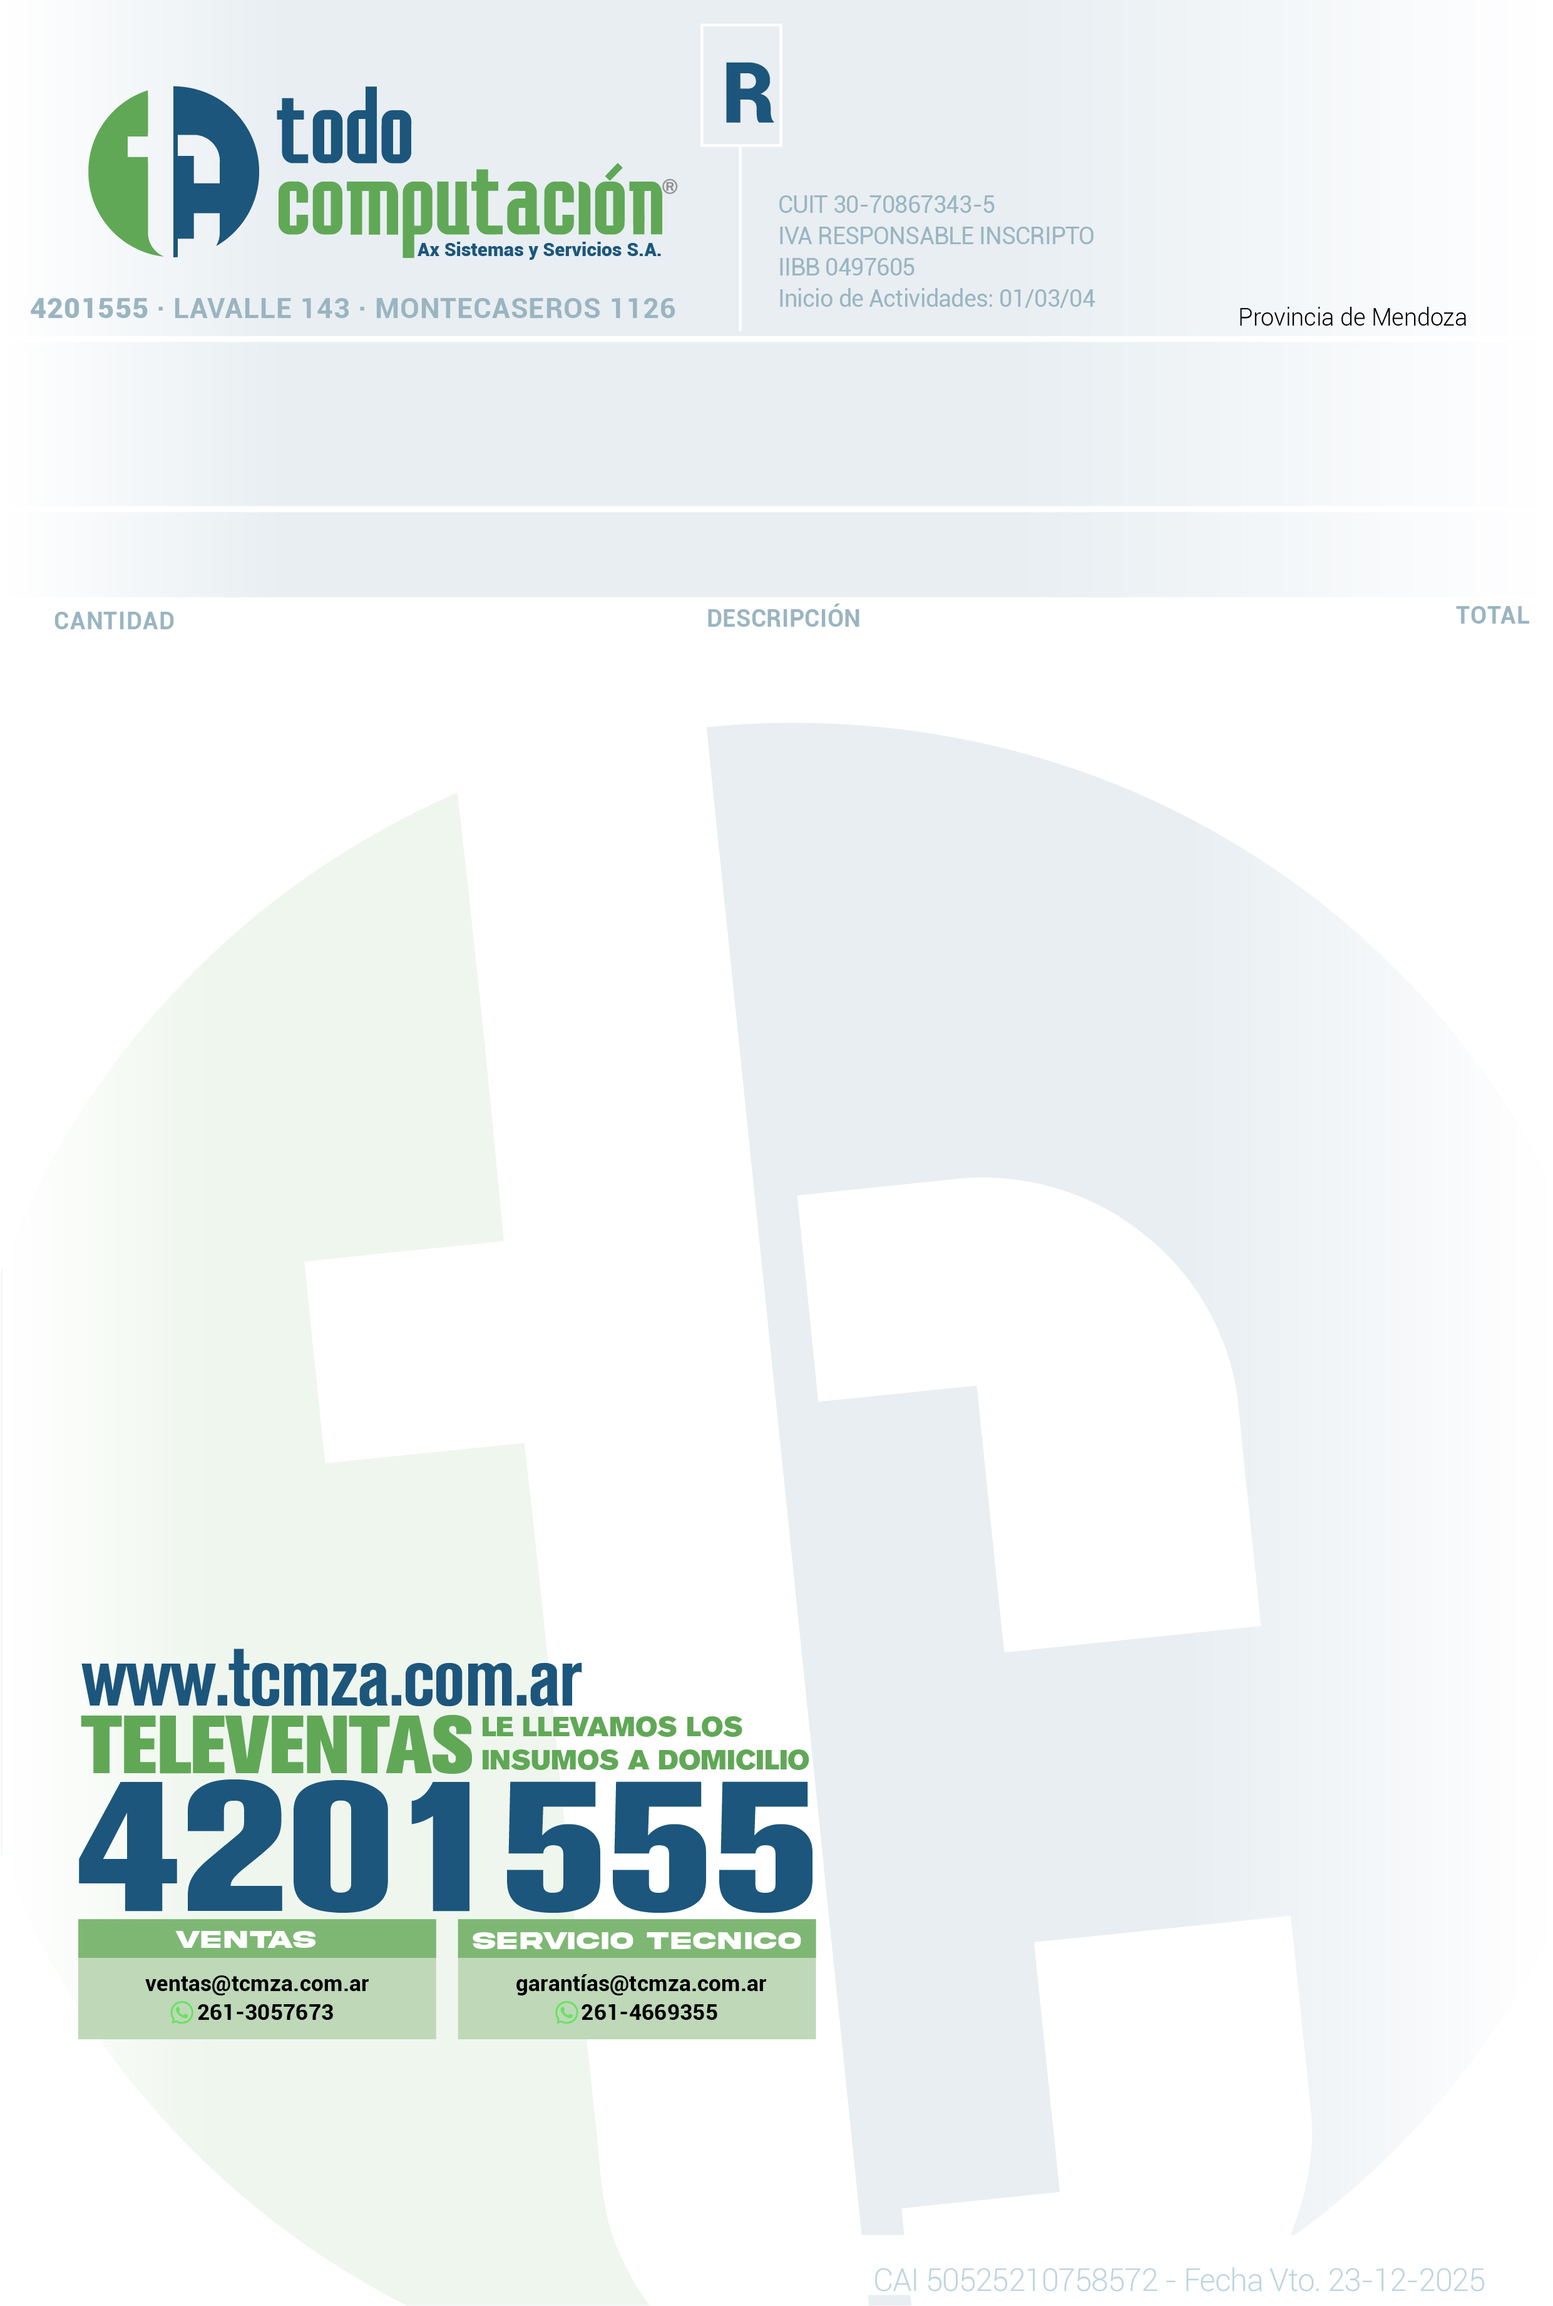
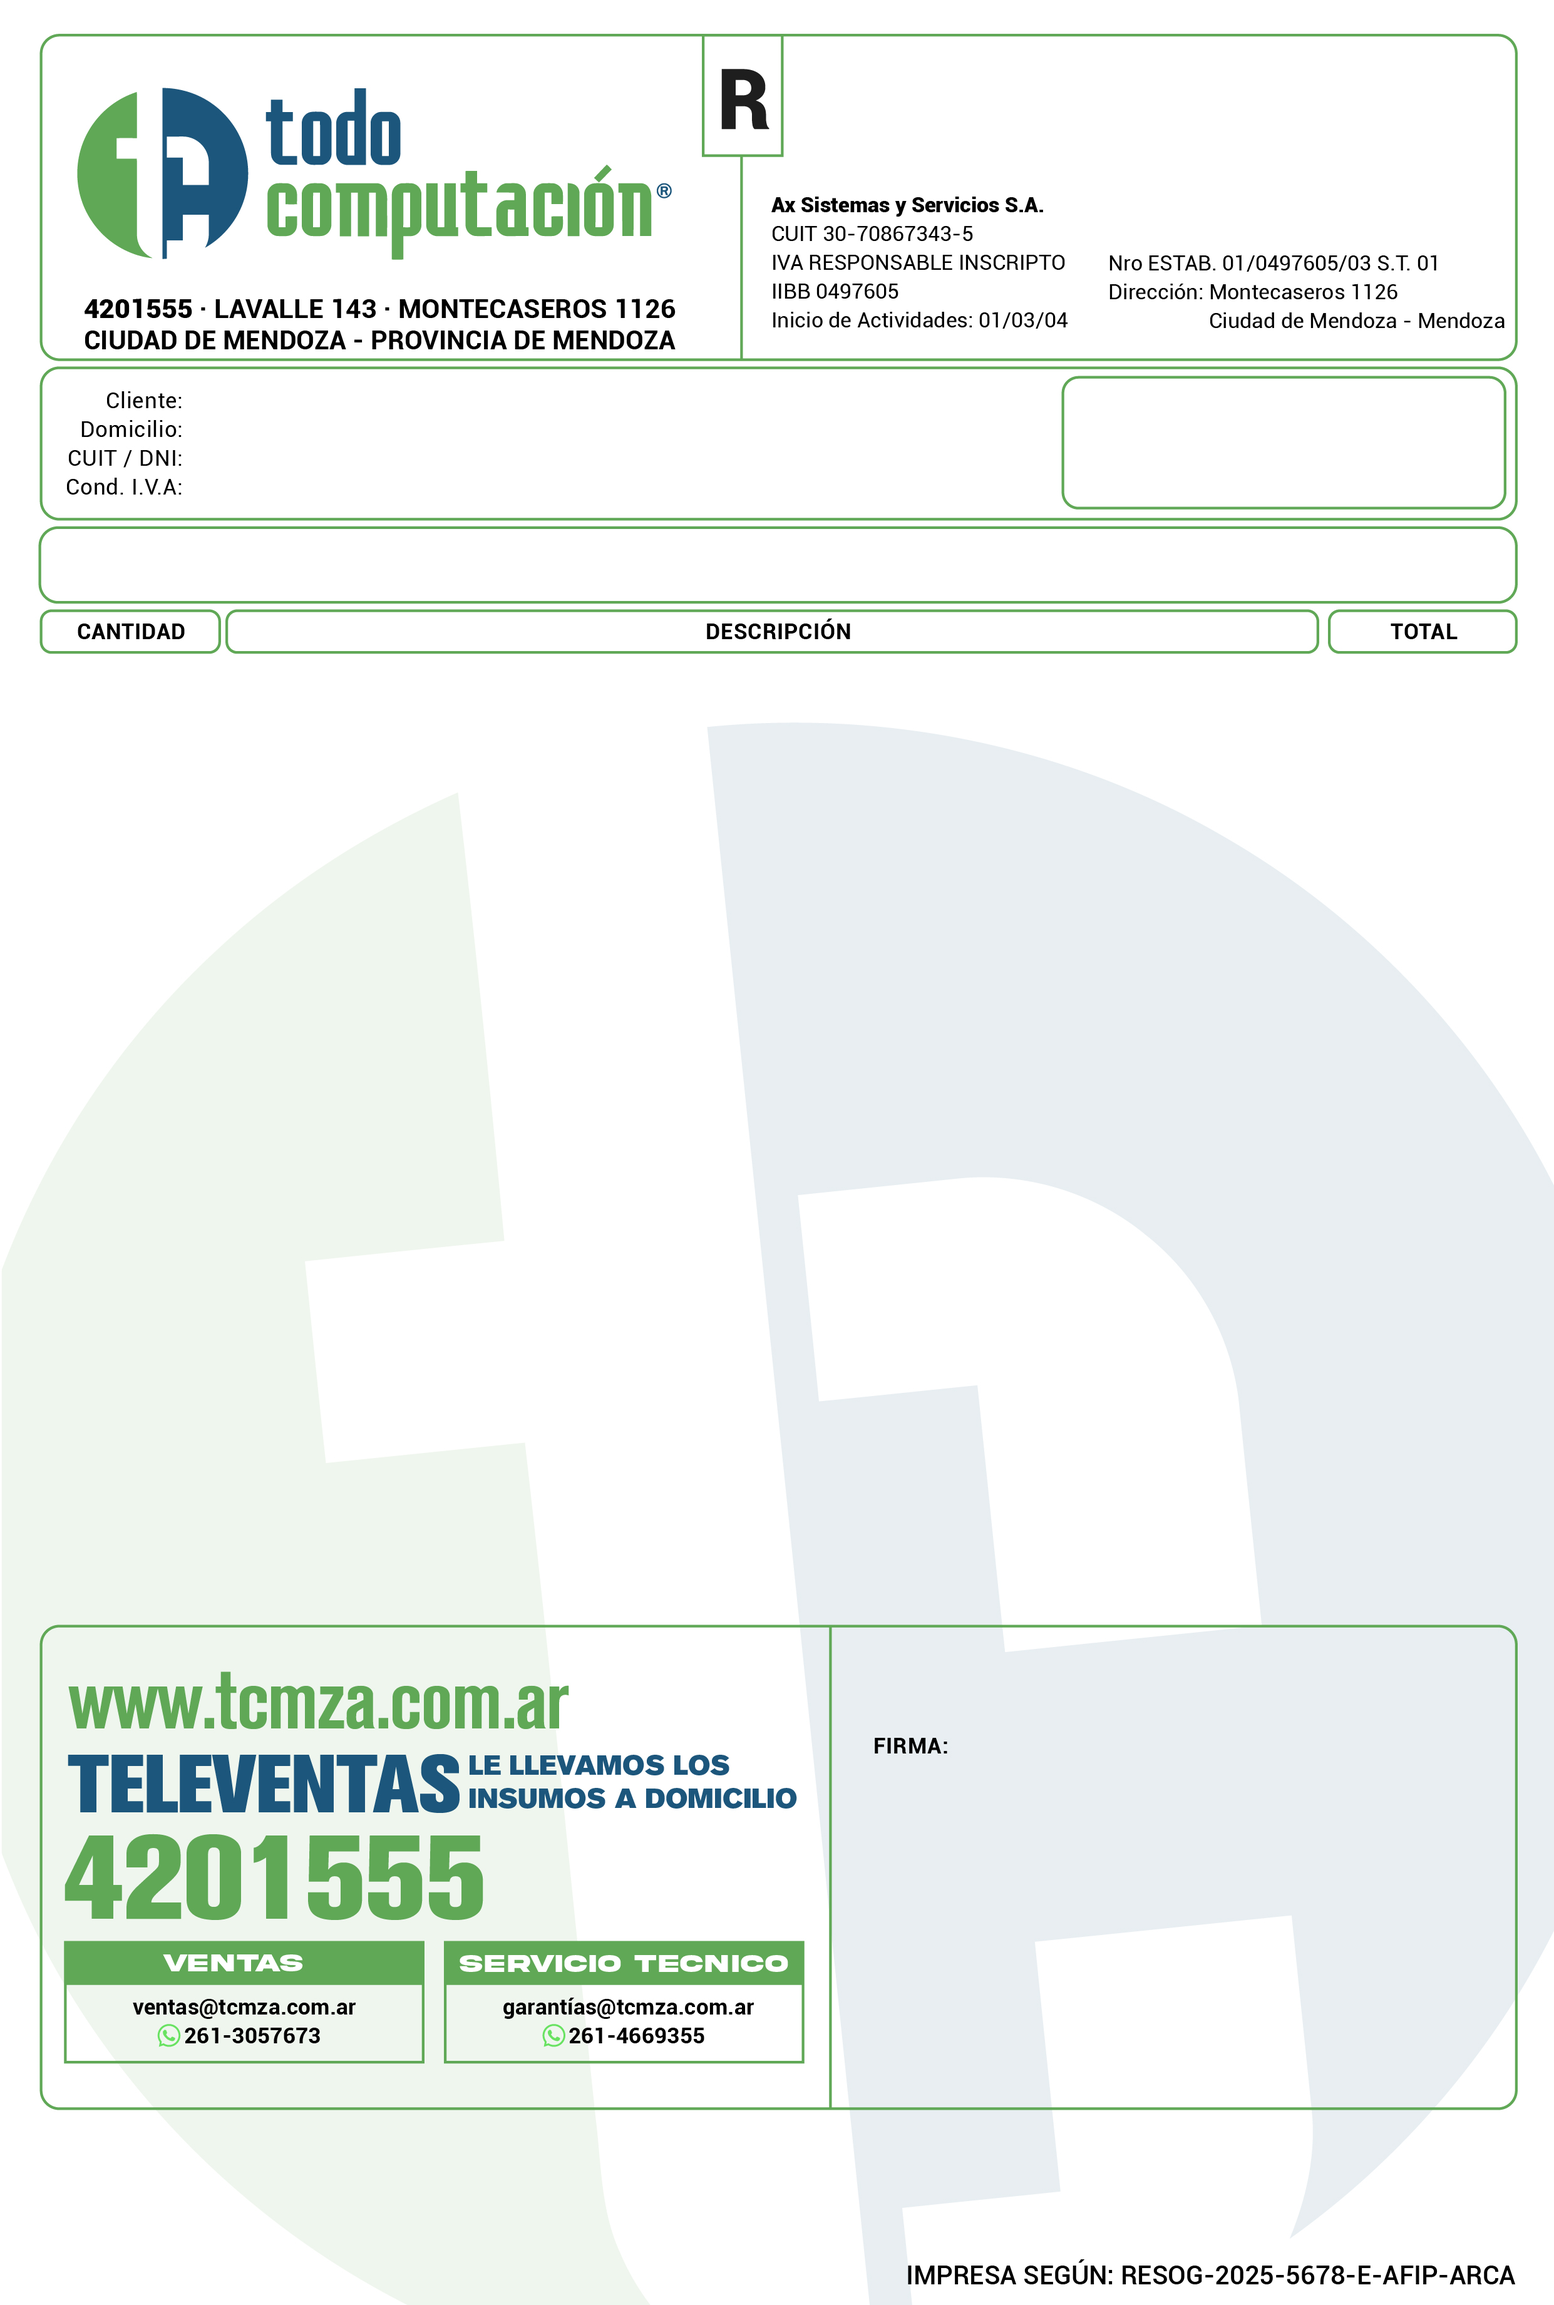
Seteo remitos, arreglo fecha dolar

diff --git a/src/services/BnaService.ts b/src/services/BnaService.ts
@@ -240,9 +240,14 @@ export async function writeBnaDbf(q: Quotes, file: string): Promise<string> {
     { name: 'VENTA', type: 'N', size: 14, decs: 4 }, { name: 'UNIDAD', type: 'N', size: 5, decs: 0 },
     { name: 'FUENTE', type: 'C', size: 10 }
   ] as any);
-  const jsDate = new Date(q.fecha + 'T00:00:00'); const hora = q.hora || '';
+  // FECHA: fecha del día del reporte (local)
+  const now = new Date();
+  const reportDate = new Date(now.getFullYear(), now.getMonth(), now.getDate());
+  // FECHACOT fallback: fecha informada por BNA si existe, si no usar fecha del reporte
+  const cotFallbackDate = q.fecha ? new Date(q.fecha + 'T00:00:00') : reportDate;
+  const hora = q.hora || '';
   await dbf.appendRecords(rows.map(r => ({
-    FECHA: jsDate, HORA: hora, FECHACOT: r.fechaCot ? new Date(r.fechaCot + 'T00:00:00') : jsDate,
+    FECHA: reportDate, HORA: hora, FECHACOT: r.fechaCot ? new Date(r.fechaCot + 'T00:00:00') : cotFallbackDate,
     TIPO: r.tipo, MONEDA: r.moneda, COD: r.cod,
     COMPRA: r.compra ?? 0, VENTA: r.venta ?? 0, UNIDAD: r.unidad, FUENTE: 'BNA'
   })) as any);
@@ -254,8 +259,10 @@ export async function writeBnaCsv(q: Quotes, file: string): Promise<string> {
   const hdr = ['fecha', 'hora', 'fechaCot', 'tipo', 'moneda', 'cod', 'compra', 'venta', 'unidad', 'fuente'];
   const js = (v: any) => (v == null ? '' : String(v).replace(/"/g, '""'));
   const lines = [hdr.join(',')];
+  const now = new Date();
+  const fechaReporte = `${now.getFullYear()}-${String(now.getMonth() + 1).padStart(2, '0')}-${String(now.getDate()).padStart(2, '0')}`;
   for (const r of rows) lines.push([
-    q.fecha, q.hora || '', r.fechaCot || '', r.tipo, r.moneda, r.cod,
+    fechaReporte, q.hora || '', r.fechaCot || '', r.tipo, r.moneda, r.cod,
     // Para CSV: números formateados es-AR (miles '.' decimales ',')
     formatNumberEsAR(r.compra, 4), formatNumberEsAR(r.venta, 4), r.unidad, 'BNA'
   ].map(v => `"${js(v)}"`).join(','));
@@ -267,7 +274,9 @@ export async function writeBnaXlsx(q: Quotes, file: string): Promise<string> {
   const rows = usdRows(q);
   const wb = new (ExcelJS as any).Workbook(); const ws = wb.addWorksheet('USD');
   ws.addRow(['fecha', 'hora', 'fechaCot', 'tipo', 'moneda', 'cod', 'compra', 'venta', 'unidad', 'fuente']);
-  for (const r of rows) ws.addRow([q.fecha, q.hora || '', r.fechaCot || '', r.tipo, r.moneda, r.cod, r.compra, r.venta, r.unidad, 'BNA']);
+  const now = new Date();
+  const fechaReporte = `${now.getFullYear()}-${String(now.getMonth() + 1).padStart(2, '0')}-${String(now.getDate()).padStart(2, '0')}`;
+  for (const r of rows) ws.addRow([fechaReporte, q.hora || '', r.fechaCot || '', r.tipo, r.moneda, r.cod, r.compra, r.venta, r.unidad, 'BNA']);
   // Formato numérico amigable (Excel aplicará separadores locales del sistema)
   const compraCol = 7, ventaCol = 8;
   for (let i = 2; i <= rows.length + 1; i++) {
@@ -290,9 +299,14 @@ export async function writeBnaDbfAll(q: Quotes, file: string): Promise<string> {
     { name: 'VENTA', type: 'N', size: 14, decs: 4 }, { name: 'UNIDAD', type: 'N', size: 6, decs: 0 },
     { name: 'FUENTE', type: 'C', size: 10 }
   ] as any);
-  const jsDate = new Date(q.fecha + 'T00:00:00'); const hora = q.hora || '';
+  // FECHA: fecha del día del reporte
+  const now = new Date();
+  const reportDate = new Date(now.getFullYear(), now.getMonth(), now.getDate());
+  // FECHACOT fallback: fecha BNA (si existe), si no usar fecha del reporte
+  const cotFallbackDate = q.fecha ? new Date(q.fecha + 'T00:00:00') : reportDate;
+  const hora = q.hora || '';
   await dbf.appendRecords(rows.map(r => ({
-    FECHA: jsDate, HORA: hora, FECHACOT: r.fechaCot ? new Date(r.fechaCot + 'T00:00:00') : jsDate,
+    FECHA: reportDate, HORA: hora, FECHACOT: r.fechaCot ? new Date(r.fechaCot + 'T00:00:00') : cotFallbackDate,
     TIPO: r.tipo, MONEDA: r.moneda, COD: r.cod,
     COMPRA: r.compra ?? 0, VENTA: r.venta ?? 0, UNIDAD: r.unidad, FUENTE: 'BNA'
   })) as any);
@@ -305,8 +319,10 @@ export async function writeBnaCsvAll(q: Quotes, file: string): Promise<string> {
   const hdr = ['fecha', 'hora', 'fechaCot', 'tipo', 'moneda', 'cod', 'compra', 'venta', 'unidad', 'fuente'];
   const js = (v: any) => (v == null ? '' : String(v).replace(/"/g, '""'));
   const lines = [hdr.join(',')];
+  const now = new Date();
+  const fechaReporte = `${now.getFullYear()}-${String(now.getMonth() + 1).padStart(2, '0')}-${String(now.getDate()).padStart(2, '0')}`;
   for (const r of rows) lines.push([
-    q.fecha, q.hora || '', r.fechaCot || '', r.tipo, r.moneda, r.cod,
+    fechaReporte, q.hora || '', r.fechaCot || '', r.tipo, r.moneda, r.cod,
     formatNumberEsAR(r.compra, 4), formatNumberEsAR(r.venta, 4), r.unidad, 'BNA'
   ].map(v => `"${js(v)}"`).join(','));
   fs.writeFileSync(file, lines.join('\n'), 'utf8');
@@ -318,7 +334,9 @@ export async function writeBnaXlsxAll(q: Quotes, file: string): Promise<string> 
   try { if (fs.existsSync(file)) fs.unlinkSync(file); } catch {}
   const wb = new (ExcelJS as any).Workbook(); const ws = wb.addWorksheet('COTIZACIONES');
   ws.addRow(['fecha', 'hora', 'fechaCot', 'tipo', 'moneda', 'cod', 'compra', 'venta', 'unidad', 'fuente']);
-  for (const r of rows) ws.addRow([q.fecha, q.hora || '', r.fechaCot || '', r.tipo, r.moneda, r.cod, r.compra, r.venta, r.unidad, 'BNA']);
+  const now = new Date();
+  const fechaReporte = `${now.getFullYear()}-${String(now.getMonth() + 1).padStart(2, '0')}-${String(now.getDate()).padStart(2, '0')}`;
+  for (const r of rows) ws.addRow([fechaReporte, q.hora || '', r.fechaCot || '', r.tipo, r.moneda, r.cod, r.compra, r.venta, r.unidad, 'BNA']);
   const compraCol = 7, ventaCol = 8;
   for (let i = 2; i <= rows.length + 1; i++) {
     const c1 = ws.getCell(i, compraCol); c1.numFmt = '#,##0.0000';

diff --git a/src/invoiceLayout.mendoza.ts b/src/invoiceLayout.mendoza.ts
@@ -24,13 +24,13 @@ const layoutMendoza: Config = {
     // Encabezado de Factura
     comprobanteLetra: { x: -9, y: 8, fontSize: 26 },     // Letra A/B/C en el recuadro central
     clienteNombre: { x: 27, y: 50, fontSize: 8 },        // Nombre del cliente
-    clienteNombreRemito: { x: 27, y: 48, fontSize: 8 },  // Override Remito
+    clienteNombreRemito: { x: 27, y: 50, fontSize: 8 },  // Override Remito
     clienteDomicilio: { x: 27, y: 54, fontSize: 8 },     // Dirección del cliente
-    clienteDomicilioRemito: { x: 27, y: 52, fontSize: 8 },
+    clienteDomicilioRemito: { x: 27, y: 54, fontSize: 8 },
     clienteCuit: { x: 27, y: 58, fontSize: 8 },          // CUIT/DNI del cliente
-    clienteCuitRemito: { x: 27, y: 56, fontSize: 8 },
+    clienteCuitRemito: { x: 27, y: 58, fontSize: 8 },
     clienteIva: { x: 27, y: 62, fontSize: 8 },           // Condición IVA del cliente
-    clienteIvaRemito: { x: 27, y: 60, fontSize: 8 },
+    clienteIvaRemito: { x: 27, y: 62, fontSize: 8 },
 
     // Información del Comprobante
     fecha: { x: 160, y: 20, fontSize: 12 },              // Fecha de emisión (formato DD/MM/YYYY)
@@ -47,13 +47,13 @@ const layoutMendoza: Config = {
 
     // Información Comercial
     atendio: { x: 145, y: 50, fontSize: 9 },             // Quién atendió al cliente
-    atendioRemito: { x: 145, y: 48, fontSize: 9 },
+    atendioRemito: { x: 145, y: 50, fontSize: 9 },
     condicionPago: { x: 145, y: 54, fontSize: 9 },       // Condición de pago (contado/crédito)
-    condicionPagoRemito: { x: 145, y: 52, fontSize: 9 },
+    condicionPagoRemito: { x: 145, y: 54, fontSize: 9 },
     hora: { x: 145, y: 58, fontSize: 9 },                // Hora de emisión (formato HH:mm)
-    horaRemito: { x: 145, y: 56, fontSize: 9 },
+    horaRemito: { x: 145, y: 58, fontSize: 9 },
     email: { x: 145, y: 62, fontSize: 7 },               // Email del cliente
-    emailRemito: { x: 145, y: 60, fontSize: 7 },
+    emailRemito: { x: 145, y: 62, fontSize: 7 },
     
     // Información Adicional
     moneda: { x: 162, y: 30, fontSize: 8 },              // Moneda de la factura (ARS, USD, etc.)
@@ -62,11 +62,11 @@ const layoutMendoza: Config = {
 
     // Detalles de Entrega
     notaRecepcion: { x: 8, y: 70, fontSize: 9 },         // Número de nota de recepción
-    notaRecepcionRemito: { x: 8, y: 68, fontSize: 9 },
+    notaRecepcionRemito: { x: 8, y: 70, fontSize: 9 },
     remito: { x: 100, y: 70, fontSize: 9 },              // Número de remito
-    remitoRemito: { x: 100, y: 68, fontSize: 9 },
+    remitoRemito: { x: 100, y: 70, fontSize: 9 },
     observaciones: { x: 8, y: 70, maxWidth: 120, fontSize: 9 }, // Observaciones generales
-    observacionesRemito: { x: 8, y: 68, maxWidth: 120, fontSize: 9 },
+    observacionesRemito: { x: 8, y: 70, maxWidth: 120, fontSize: 9 },
 
     // Tabla de Items
     itemsStartY: 87,                                    // Posición Y donde empiezan los items
@@ -112,7 +112,7 @@ const layoutMendoza: Config = {
 
     // Total en letras
     totalEnLetras: { x: 9, y: 206, maxWidth: 120, fontSize: 9 }, // "SON PESOS: UN MIL..." (total en letras)
-    totalEnLetrasRemito: { x: 9, y: 204, maxWidth: 120, fontSize: 9 },
+    totalEnLetrasRemito: { x: 9, y: 206, maxWidth: 120, fontSize: 9 },
 
     // Información AFIP
     cae: { x: 115, y: 252, fontSize: 8 },                        // Número de CAE (Código de Autorización Electrónico)
@@ -128,7 +128,7 @@ const layoutMendoza: Config = {
     // Observaciones dinámicas de pie (desde OBS.PIE)
     pieObservaciones: { x: 10, y: 273, maxWidth: 190, fontSize: 8 },
     // Variante exclusiva para Remito (fondo diferente): subir el pie
-    pieObservacionesRemito: { x: 10, y: 266, maxWidth: 190, fontSize: 8 },
+    pieObservacionesRemito: { x: 10, y: 273, maxWidth: 190, fontSize: 8 },
     // Observaciones fiscales (debajo de TOTAL)
     obsFiscal: { x: 114, y: 262, maxWidth: 96, fontSize: 6, maxChars: 84 },
 
